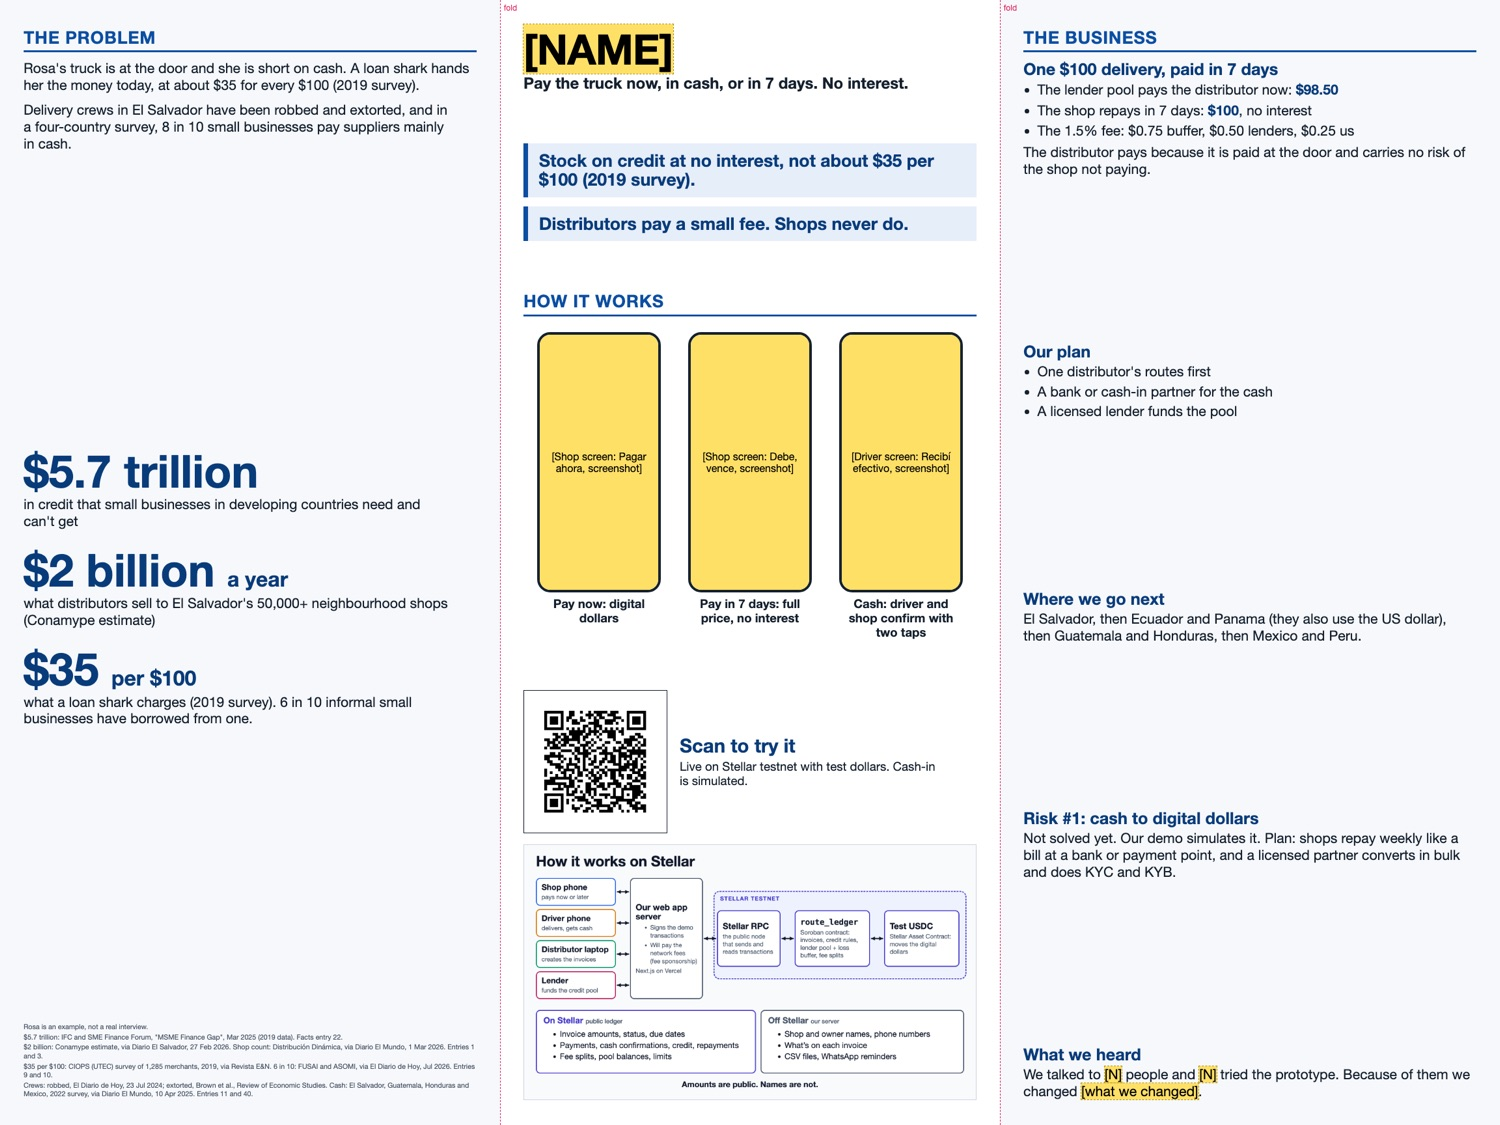
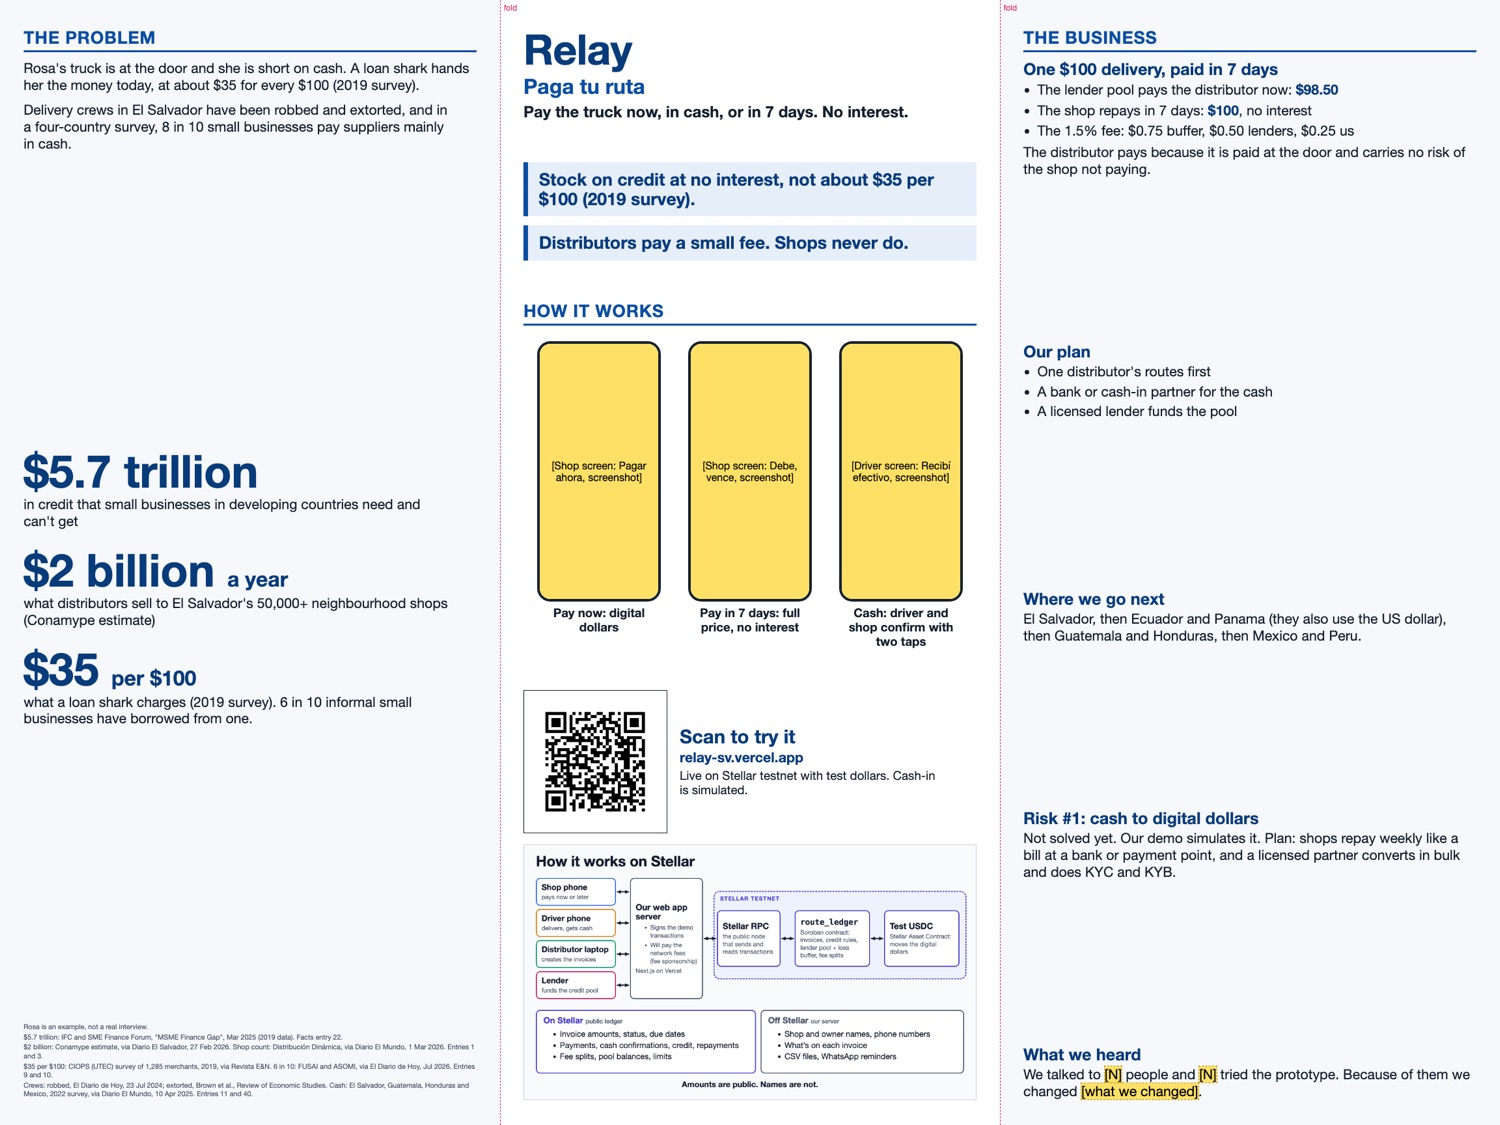
Relay name and relay-sv URL in the pitch script and trifold (follow-up to #83)
Replace [NAME] with Relay in the script, layout sketch and board title, add the
tagline "Paga tu ruta" under the board title, print relay-sv.vercel.app under
the QR, mark the name row in the open items as done, point print-shop.md at the
new address, and re-render the previews. The [N] and [what we changed]
placeholders are left for #30.

diff --git a/docs/trifold/trifold.html b/docs/trifold/trifold.html
@@ -11,8 +11,9 @@
     ?layout=a   12 + 24 + 12 in   (the usual 36 x 48 in tri-fold: a wide centre, two narrow wings)
     ?layout=b   16 + 16 + 16 in   (what the first #37 draft assumed)
 
-  Anything still missing is a yellow box or yellow text (class "todo"): the team name, the numbers from
-  #30, the three phone screenshots (docs/trifold/img/) and the QR (public/qr-demo.png, PR #70).
+  Anything still missing is a yellow box or yellow text (class "todo"): the numbers from #30, the three
+  phone screenshots (docs/trifold/img/) and the QR if its file is missing (public/qr-demo.png, PR #70).
+  The name is Relay, tagline "Paga tu ruta" (PR #100); the app is at relay-sv.vercel.app.
   `node docs/trifold/render.mjs --final` refuses to build while any yellow is left.
 
   Screenshots expected in docs/trifold/img/ (take them at 360 px wide, device pixel ratio 3, with the grey
@@ -77,6 +78,7 @@
 
   h1 { margin: 0; font-size: 96pt; line-height: 1; font-weight: 800; letter-spacing: -0.01em; color: var(--brand-dark); }
   .tagline { margin: 0.15in 0 0; font-size: 36pt; line-height: 1.15; font-weight: 600; }
+  .tagline.slogan { font-size: 48pt; font-weight: 800; color: var(--brand); }
   h2 {
     margin: 0; padding-bottom: 0.1in; font-size: 40pt; line-height: 1.1; font-weight: 800; letter-spacing: 0.03em;
     text-transform: uppercase; color: var(--brand); border-bottom: 0.08in solid var(--brand);
@@ -112,6 +114,7 @@
   .qrbox .qr { width: 5in; height: 5in; padding: 0.3in; background: #fff; border: 0.03in solid var(--ink); flex: none; }
   html[data-layout="b"] .qrbox .qr { width: 4.6in; height: 4.6in; }
   .qrtext p { font-size: 28pt; line-height: 1.18; }
+  .qrtext .url { font-size: 32pt; font-weight: 800; color: var(--brand-dark); line-height: 1.1; margin-bottom: 0.1in; overflow-wrap: normal; }
   .qrtext .scan { font-size: 44pt; font-weight: 800; color: var(--brand-dark); line-height: 1.05; margin-bottom: 0.1in; }
   .diagram { margin: 0; flex: 1; min-width: 0; width: 100%; }
   .diagram img { display: block; width: 100%; height: auto; border: 0.02in solid #cfd6e0; }
@@ -173,7 +176,8 @@
   <!-- CENTRE: name, two key points, how it works -->
   <section class="panel mid" id="mid">
     <div>
-      <h1><span class="todo">[NAME]</span></h1>
+      <h1>Relay</h1>
+      <p class="tagline slogan">Paga tu ruta</p>
       <p class="tagline">Pay the truck now, in cash, or in 7 days. No interest.</p>
     </div>
 
@@ -205,6 +209,7 @@
         <img class="qr" src="../../public/qr-demo.png" alt="QR code that opens the demo" onerror="missing(this, 'QR: public/qr-demo.png (PR #70)')">
         <div class="qrtext">
           <p class="scan">Scan to try it</p>
+          <p class="url">relay-sv.vercel.app</p>
           <p>Live on Stellar testnet with test dollars. Cash-in is simulated.</p>
         </div>
       </div>

diff --git a/docs/pitch.md b/docs/pitch.md
@@ -9,16 +9,16 @@ Status as of Thu Nov 12, evening. Update the "Status" column when an input lands
 | # | What is missing | Who | Status | What v1 does meanwhile |
 |---|---|---|---|---|
 | 1 | Final wording of the worldwide number (#51), due Sat noon | Rohan | **Done.** #51 is closed and PR #73 is merged (Nov 12): entry 22 and the "Opening line" are in `docs/facts.md` on `main`. | The 0:00 segment is the #73 opening line ($5.7 trillion) with "says Conamype" added (entry 1 asks for the attribution) and without "alone" after "In El Salvador". Put "alone" back to match #73 word for word (+1 word, 0.4 s). |
-| 2 | Team name (#26) | Everyone | **Open.** #26 was closed on Nov 12 (with PR #86, the test checklist) but no comment on it gives the name, and `lib/brand.ts` on `main` still says "Nombre pendiente". | `[NAME]` in the script and a yellow box on the board. |
+| 2 | Team name (#26) | Everyone | **Done.** Yahya picked **Relay**, tagline **Paga tu ruta**, on Nov 12 (PR #100, merged: `lib/brand.ts` has both). The app is at **relay-sv.vercel.app**; the old tiendas-stellar address only redirects (PR #102). | Relay is in the script, the board and the answer bank. The board shows the tagline under the title and prints the address under the QR. Nothing is left to do here. |
 | 3 | Pitcher (#26) | Everyone | **Open.** #26 is closed and records no pitcher either. | Written for one speaker, in first person. |
 | 4 | "What we heard from N people" (#30). | Rohan | **Open.** `docs/research.md` is on `main` now (PR #72) but logs only the two advisor calls: no interviews or walkthroughs yet, and #30 is open. | `[N]` and `[what we changed]` in the script and on the board (yellow). If N is under 5, say the real number (context §13). |
 | 5 | Three real phone screenshots. `docs/screenshots/mock-screens-nov10.png` is a mock, not for the board | Jack | **Open.** | Three yellow phone frames on the board. Files go in `docs/trifold/img/` as `shop-pay.png`, `shop-credit.png`, `driver-cash.png`: 360 px wide, device pixel ratio 3 (1080 px wide, 180 pixels per inch at 6 in), grey testnet banner in frame. |
-| 6 | Demo QR `public/qr-demo.png` (#55, PR #70) | Yahya | **Merged** (PR #70, Nov 12). The file is `public/qr-demo.png` on `main` (1200 x 1200 px, well over 200 pixels per inch at its printed size). Decoded again on Nov 12 with macOS CoreImage, from the file on `main`: it opens `https://tiendas-stellar.vercel.app/demo`. Scan the printed copy on 3 phones (#40). | The layout reads `public/qr-demo.png` and now renders it. |
+| 6 | Demo QR `public/qr-demo.png` (#55, PR #70) | Yahya | **Merged** (PR #70, Nov 12). The file is `public/qr-demo.png` on `main` (1200 x 1200 px, well over 200 pixels per inch at its printed size). PR #102 (Nov 12) regenerated it for the new address. Decoded on Nov 12 evening with macOS CoreImage, from the file on `main`: it opens `https://relay-sv.vercel.app/demo`. `curl -sI https://relay-sv.vercel.app` answers 200. Scan the printed copy on 3 phones (#40). | The layout reads `public/qr-demo.png` and now renders it. |
 | 7 | Board size: do the panels fold 12 + 24 + 12 in or 16 + 16 + 16 in? | Jack | **Open: measure the board** (see section 1). | Both layouts are built and pass the same checks. Pick one when measured. |
-| 8 | Paper sketch agreed, print-ready file link in the group chat | Team | **Not done by this PR.** The layout builds a 48 x 36 in PDF in both versions (`node docs/trifold/render.mjs`), but it carries yellow placeholders until rows 2, 4 and 5 close. These are two of the three "Done means" lines of #37. | The PDFs are not committed (`out/` is git-ignored); Jack builds the final one and shares it. |
+| 8 | Paper sketch agreed, print-ready file link in the group chat | Team | **Not done by this PR.** The layout builds a 48 x 36 in PDF in both versions (`node docs/trifold/render.mjs`), but it carries yellow placeholders until rows 4 and 5 close. These are two of the three "Done means" lines of #37. | The PDFs are not committed (`out/` is git-ignored); Jack builds the final one and shares it. |
 | 9 | The video (#35). Its first 8 seconds are a title card with the worldwide number (`docs/demo-video.md`, PR #77) | Yahya | **Open.** #77 is merged: the title card is now shown as text, not spoken, and narration starts at 0:08 on the shop screens. The video is not recorded yet (#35 is open). | The pitch says the opening line once, at 0:00, and plays the video from 0:08, after the title card, so the video runs 52 s, not 60. The full video stays as it is for Devpost. If the title card changes length, change the 52.0 s in the timing table. |
 | 10 | A sharper diagram: `docs/img/architecture.png` is 1920 x 1080 px, which is 113 pixels per inch on the 12 + 24 + 12 board and 132 on the 16 + 16 + 16 one | Owner of the slide renders (PR #85's scaffold), asked through Jack | **Not asked yet.** Request text is in section 1. | The layout uses the 1x file and prints a warning. It picks up `architecture@2x.png` by itself when it exists. |
-| 11 | Copy the Nov 12 source-check edits from this file into `docs/trifold/trifold.html`: the left-panel crews and cash line (+12 words and a source line) and the right-panel "and sells more" cut (-3 words). Then run `node docs/trifold/render.mjs` and re-measure the word count and text share in section 1 | Jack | **Done Nov 12.** `trifold.html` has the new crews and cash line (+12 words), its source line (+35 words) and the "and sells more" cut (net -2 words, because "and" had to be added before "carries"). Re-rendered: the board was then 446 words (was 401; it is 452 now), text share 15.5% (A) and 15% (B) then (15.8% and 15.2% now), all panels fit. | None: the board copy and this file agree. The spoken script was not affected. |
+| 11 | Copy the Nov 12 source-check edits from this file into `docs/trifold/trifold.html`: the left-panel crews and cash line (+12 words and a source line) and the right-panel "and sells more" cut (-3 words). Then run `node docs/trifold/render.mjs` and re-measure the word count and text share in section 1 | Jack | **Done Nov 12.** `trifold.html` has the new crews and cash line (+12 words), its source line (+35 words) and the "and sells more" cut (net -2 words, because "and" had to be added before "carries"). Re-rendered: the board was then 446 words (was 401; it is 456 now), text share 15.5% (A) and 15% (B) then (16.0% and 15.4% now), all panels fit. | None: the board copy and this file agree. The spoken script was not affected. |
 
 **Fee fix needed.** Issue #37 and Rohan's assumptions draft (PR #74, closed without merging; #12 is still open) say the distributor gets **$98.40** on a $100 sale. The contract pays **$98.50**. $98.40 was the older version with a 0.10% usage fee on top of the 1.5% credit fee. That fee was dropped for credit sales on Nov 10 (context §16; `lib.rs:19` and `:580`). This file uses $98.50, as `docs/facts.md` entry 29 does (it lists $98.40 under "Never use"). Rohan should make sure the assumptions doc that replaces #74 says $98.50 before the finals.
 
@@ -39,15 +39,15 @@ Nobody has measured our board. Most 36 x 48 in tri-fold boards are 36 in tall an
 | Phones, each | 6 in wide | 3.95 in wide |
 | Two key points | 50 pt | 40 pt |
 | Diagram | 17 in wide: 113 pixels per inch at 1x | 14.5 in wide: 132 pixels per inch at 1x |
-| Text share of the board | 15.8% | 15.2% |
+| Text share of the board | 16.0% | 15.4% |
 
 **To measure:** open the board flat. With a tape measure, write down the height, then the distance from the left edge to the first crease, from the first crease to the second, and from the second to the right edge. If it reads about 12, 24, 12, use A. If it reads three equal panels, use B. If it is something else, the widths are two lines of CSS at the top of `trifold.html`; send me the numbers.
 
 ```
 A: 12 + 24 + 12 in                                B: 16 + 16 + 16 in
 +----------+--------------------+----------+     +--------------+--------------+--------------+
-| THE      | [NAME]  (96 pt)    | THE      |     | THE PROBLEM  | [NAME]       | THE BUSINESS |
-| PROBLEM  | tagline            | BUSINESS |     |              | tagline      |              |
+| THE      | Relay (96 pt)      | THE      |     | THE PROBLEM  | Relay        | THE BUSINESS |
+| PROBLEM  | Paga tu ruta       | BUSINESS |     |              | Paga tu ruta |              |
 |          | KEY POINT 1        |          |     | Rosa, 2 para | KEY POINT 1  | $100 delivery|
 | Rosa     | KEY POINT 2        | $100     |     |              | KEY POINT 2  | Our plan     |
 |          | HOW IT WORKS       | delivery |     | $5.7 tn      | HOW IT WORKS | Where next   |
@@ -58,10 +58,10 @@ A: 12 + 24 + 12 in                                B: 16 + 16 + 16 in
 +----------+--------------------+----------+     +--------------+--------------+--------------+
 ```
 
-### What the layout checks (re-measured Nov 12 evening, both layouts pass)
+### What the layout checks (re-measured Nov 12 night, after Relay went in; both layouts pass)
 
 - Nothing runs past the bottom or the sides of a panel, so nothing crosses a fold. Blocks are spread from top to bottom; the biggest gap between blocks is 9.0 in on the left wing in A (9.5 in on the left panel in B), so it still looks airy, not crowded.
-- Text covers 15.8% (A) and 15.2% (B) of the board, against the 25% limit. The board carries **452 words** (401 before the Nov 12 source-check edits; 446 before the facts entry 40 cite and the "(2019 survey)" added to the Rosa line and the first key point), 118 of them 16 pt source lines. (The first draft guessed "about 300 words" and 9%; this is the measured figure.)
+- Text covers 16.0% (A) and 15.4% (B) of the board, against the 25% limit. The board carries **456 words** (452 before Relay, the tagline "Paga tu ruta" and the printed address went in: the name replaced one yellow `[NAME]`, so +3 for the tagline and +1 for `relay-sv.vercel.app`; 401 before the Nov 12 source-check edits; 446 before the facts entry 40 cite and the "(2019 survey)" added to the Rosa line and the first key point), 118 of them 16 pt source lines. (The first draft guessed "about 300 words" and 9%; this is the measured figure.)
 - Type: body 32 pt (the top of Velocity's 24 to 32 pt), captions 28 pt, headings 38 to 40 pt, title 96 pt, source lines 16 pt. The three big numbers (104 pt) and the two key points (50 pt or 40 pt) are display type, on purpose larger than a heading.
 - The QR is 5 in square with a white border (the assembly spec in PR #85, `docs/trifold-assembly.md`, asks for at least 4 in). The PDF is one page, 3456 x 2592 pt, with the fonts embedded and the text kept as text.
 
@@ -78,7 +78,8 @@ The layout picks up `architecture@2x.png` by itself when it exists, and `render.
 
 ### Centre: title
 
-> **[NAME]**
+> **Relay**
+> **Paga tu ruta**
 > Pay the truck now, in cash, or in 7 days. No interest.
 
 ### Left panel: the problem
@@ -112,10 +113,11 @@ Source check, Nov 12: the crew line is entry 40 in `docs/facts.md` (cash is entr
 > Pay in 7 days: full price, no interest
 > Cash: driver and shop confirm with two taps
 > Scan to try it
+> relay-sv.vercel.app
 > Live on Stellar testnet with test dollars. Cash-in is simulated.
 
 - **Three phone screenshots, left to right:** the shop's "Pagar ahora / Pagar en 7 días / Pagué en efectivo" screen; the shop's "Debe … vence …" screen after a credit payment; the driver's "Recibí efectivo" screen. The app is in Spanish, so the captions above are in English.
-- **QR:** `public/qr-demo.png` from #55 (on `main` since PR #70 merged, Nov 12).
+- **QR:** `public/qr-demo.png` from #55 (on `main` since PR #70 merged; regenerated for relay-sv.vercel.app in PR #102, Nov 12). The address is printed under "Scan to try it" so someone whose phone can't scan can type it.
 - **Diagram:** `docs/img/architecture.png` (#62), titled "How it works on Stellar". It says "Amounts are public. Names are not."
 - Leave the contract ID off the board. It changed at the Thursday redeploy (#52, #90) and may change again; `config/testnet.json` (`contracts.routeLedger`) and the README carry the current one. No contract ID appears in this file or in `docs/trifold/`.
 
@@ -146,7 +148,7 @@ Source check, Nov 12: the crew line is entry 40 in `docs/facts.md` (cash is entr
 
 ## 2. Pitch script v1 (3:00, one speaker, the 1-minute video included)
 
-**Re-timed Nov 11 at 140 words a minute.** The first draft was 275 spoken words: 117.9 s, so 2:58 with the video and no time to start or stop it, and three segments ran past their windows. This version is shorter and timed as one run, not window by window. The pool-pays-the-distributor line was said twice (0:25 and 1:55); it is now only in the 1:55 segment. Counts are spoken lines only, and a `[placeholder]` counts one word per word inside it. **Nov 12 source check:** the 0:25 segment went from 57 to 60 words, because the dollar and Stellar lines were rewritten to match their sources. **Nov 12 evening (review of #83):** Stellar's speed is now attributed ("Stellar says payments are final in about five seconds", facts entry 36), which makes the 0:25 segment 62 words and the total 259; and the video plays from 0:08, after its silent title card, so it runs 52 s, not 60. Re-count with the table below after every edit, and time it aloud in the first run-through (#39): 140 wpm is an average, and a slower speaker will need the cuts listed under the table.
+**Re-timed Nov 11 at 140 words a minute.** The first draft was 275 spoken words: 117.9 s, so 2:58 with the video and no time to start or stop it, and three segments ran past their windows. This version is shorter and timed as one run, not window by window. The pool-pays-the-distributor line was said twice (0:25 and 1:55); it is now only in the 1:55 segment. Counts are spoken lines only, and a `[placeholder]` counts one word per word inside it. **Nov 12 source check:** the 0:25 segment went from 57 to 60 words, because the dollar and Stellar lines were rewritten to match their sources. **Nov 12 evening (review of #83):** Stellar's speed is now attributed ("Stellar says payments are final in about five seconds", facts entry 36), which makes the 0:25 segment 62 words and the total 259; and the video plays from 0:08, after its silent title card, so it runs 52 s, not 60. **Nov 12 night (Relay):** `[NAME]` became Relay in the 0:25 segment and the close. Both count as one word, so no count and no time changed (re-counted: 53, 62, 75, 48 and 21 words, 259 in all, total 2:47.0, 13.0 s of slack). The tagline "Paga tu ruta" and the web address are not in the spoken script. Re-count with the table below after every edit, and time it aloud in the first run-through (#39): 140 wpm is an average, and a slower speaker will need the cuts listed under the table.
 
 ### 0:00 to 0:25
 
@@ -154,7 +156,7 @@ Source check, Nov 12: the crew line is entry 40 in `docs/facts.md` (cash is entr
 
 ### 0:25 to 0:55
 
-> So we built [NAME]. A shop pays in digital dollars, pays cash that driver and shop confirm with two taps, or pays in seven days at full price, no interest. The rules and fees sit in a public Stellar contract, and Stellar says payments are final in about five seconds. The US dollar has been El Salvador's legal tender since 2001. Watch.
+> So we built Relay. A shop pays in digital dollars, pays cash that driver and shop confirm with two taps, or pays in seven days at full price, no interest. The rules and fees sit in a public Stellar contract, and Stellar says payments are final in about five seconds. The US dollar has been El Salvador's legal tender since 2001. Watch.
 
 ### 0:55 to 1:55: the video (#35)
 
@@ -170,7 +172,7 @@ Play it from 0:08, after the title card: the 0:00 segment has already said that 
 
 ### 2:50 to 3:00
 
-> Stock without the loan shark. Payment at the door. [NAME]: one record everyone can trust. Scan the code to try it.
+> Stock without the loan shark. Payment at the door. Relay: one record everyone can trust. Scan the code to try it.
 
 ### Timing at 140 words a minute
 
@@ -217,6 +219,8 @@ Do not cut "says Conamype", "(2019 survey)", or "KYC and KYB". The fact sheet an
 | "Stellar says payments are final in about five seconds" (0:25 segment); "fees under a cent" (answer 6) | `docs/facts.md` entries 36 (developers.stellar.org: "Ledgers close in ~5 seconds, and their transactions are final when they do.") and 37 (stellar.org/solutions/cross-border-payments: "network fees under a cent") | Matches. Both are Stellar describing itself, and a teammate still has to open the links (entries 36 and 37 say so). Stellar's own pages give conflicting USD fee figures, so the script gives no dollar fee and attributes the claim. |
 | Delivery crews in El Salvador have been robbed and extorted; 8 in 10 small businesses in four countries pay suppliers mainly in cash (left panel) | Crews: entry 40 (El Diario de Hoy, 23 Jul 2024, one 2023 case; Brown et al., Review of Economic Studies, data 2012 to 2019). Cash: entry 11 | Matches entry 40's safe wording and entry 11 (regional, four countries). A teammate still has to open entry 40's links. |
 | MoneyGram lists cash-out in El Salvador, we found no cash-in (answer 3) | Entry 38: moneygram.com/stellar, "Cash-out is available in 170+ countries and territories and cash-in in 25+ countries"; its coverage data lists El Salvador as cash-out only | Matches entry 38's safe wording ("as far as we found"). "Cash-out only" is false in general. No person has looked at the map yet (entry 38). |
+| The product is called Relay, tagline "Paga tu ruta" (script, board title) | `lib/brand.ts` on `main`: `APP_NAME = "Relay"`, `TAGLINE = "Paga tu ruta"`; PR #100 | Matches |
+| The app is at relay-sv.vercel.app (board, under the QR) | `curl -sI https://relay-sv.vercel.app` answers 200 (Nov 12 night); the old tiendas-stellar address answers 307 to it. `public/qr-demo.png` decodes (macOS CoreImage) to `https://relay-sv.vercel.app/demo` | Matches |
 | Fee sponsorship and passkeys | Not on `main`. The diagram says "Will pay the network fees". | **Not claimed** in either text. |
 
 ## 4. Never say

diff --git a/docs/trifold/print-shop.md b/docs/trifold/print-shop.md
@@ -86,5 +86,5 @@ Copy the winner into the print-shop table in `docs/trifold-assembly.md` (from PR
 
 - Send the files, and ask for a reply in writing that says the pickup time.
 - Check the proof, or the PDF at 100%, for typos first. The names, numbers and the QR are on the board for the whole showcase.
-- Make the QR last, after the app's final URL is fixed (`docs/trifold-assembly.md` section 3). The one in `public/qr-demo.png` opens `https://tiendas-stellar.vercel.app/demo`.
+- The app's address is fixed: **relay-sv.vercel.app** (the old tiendas-stellar address only redirects). The QR in `public/qr-demo.png` was regenerated for it in PR #102 and opens `https://relay-sv.vercel.app/demo`; the board also prints the address under the QR. If the address ever changes again, regenerate the QR before the final render (`docs/trifold-assembly.md` section 3).
 - Ask for a shop phone number you can call on Sunday morning if the print isn't ready.
